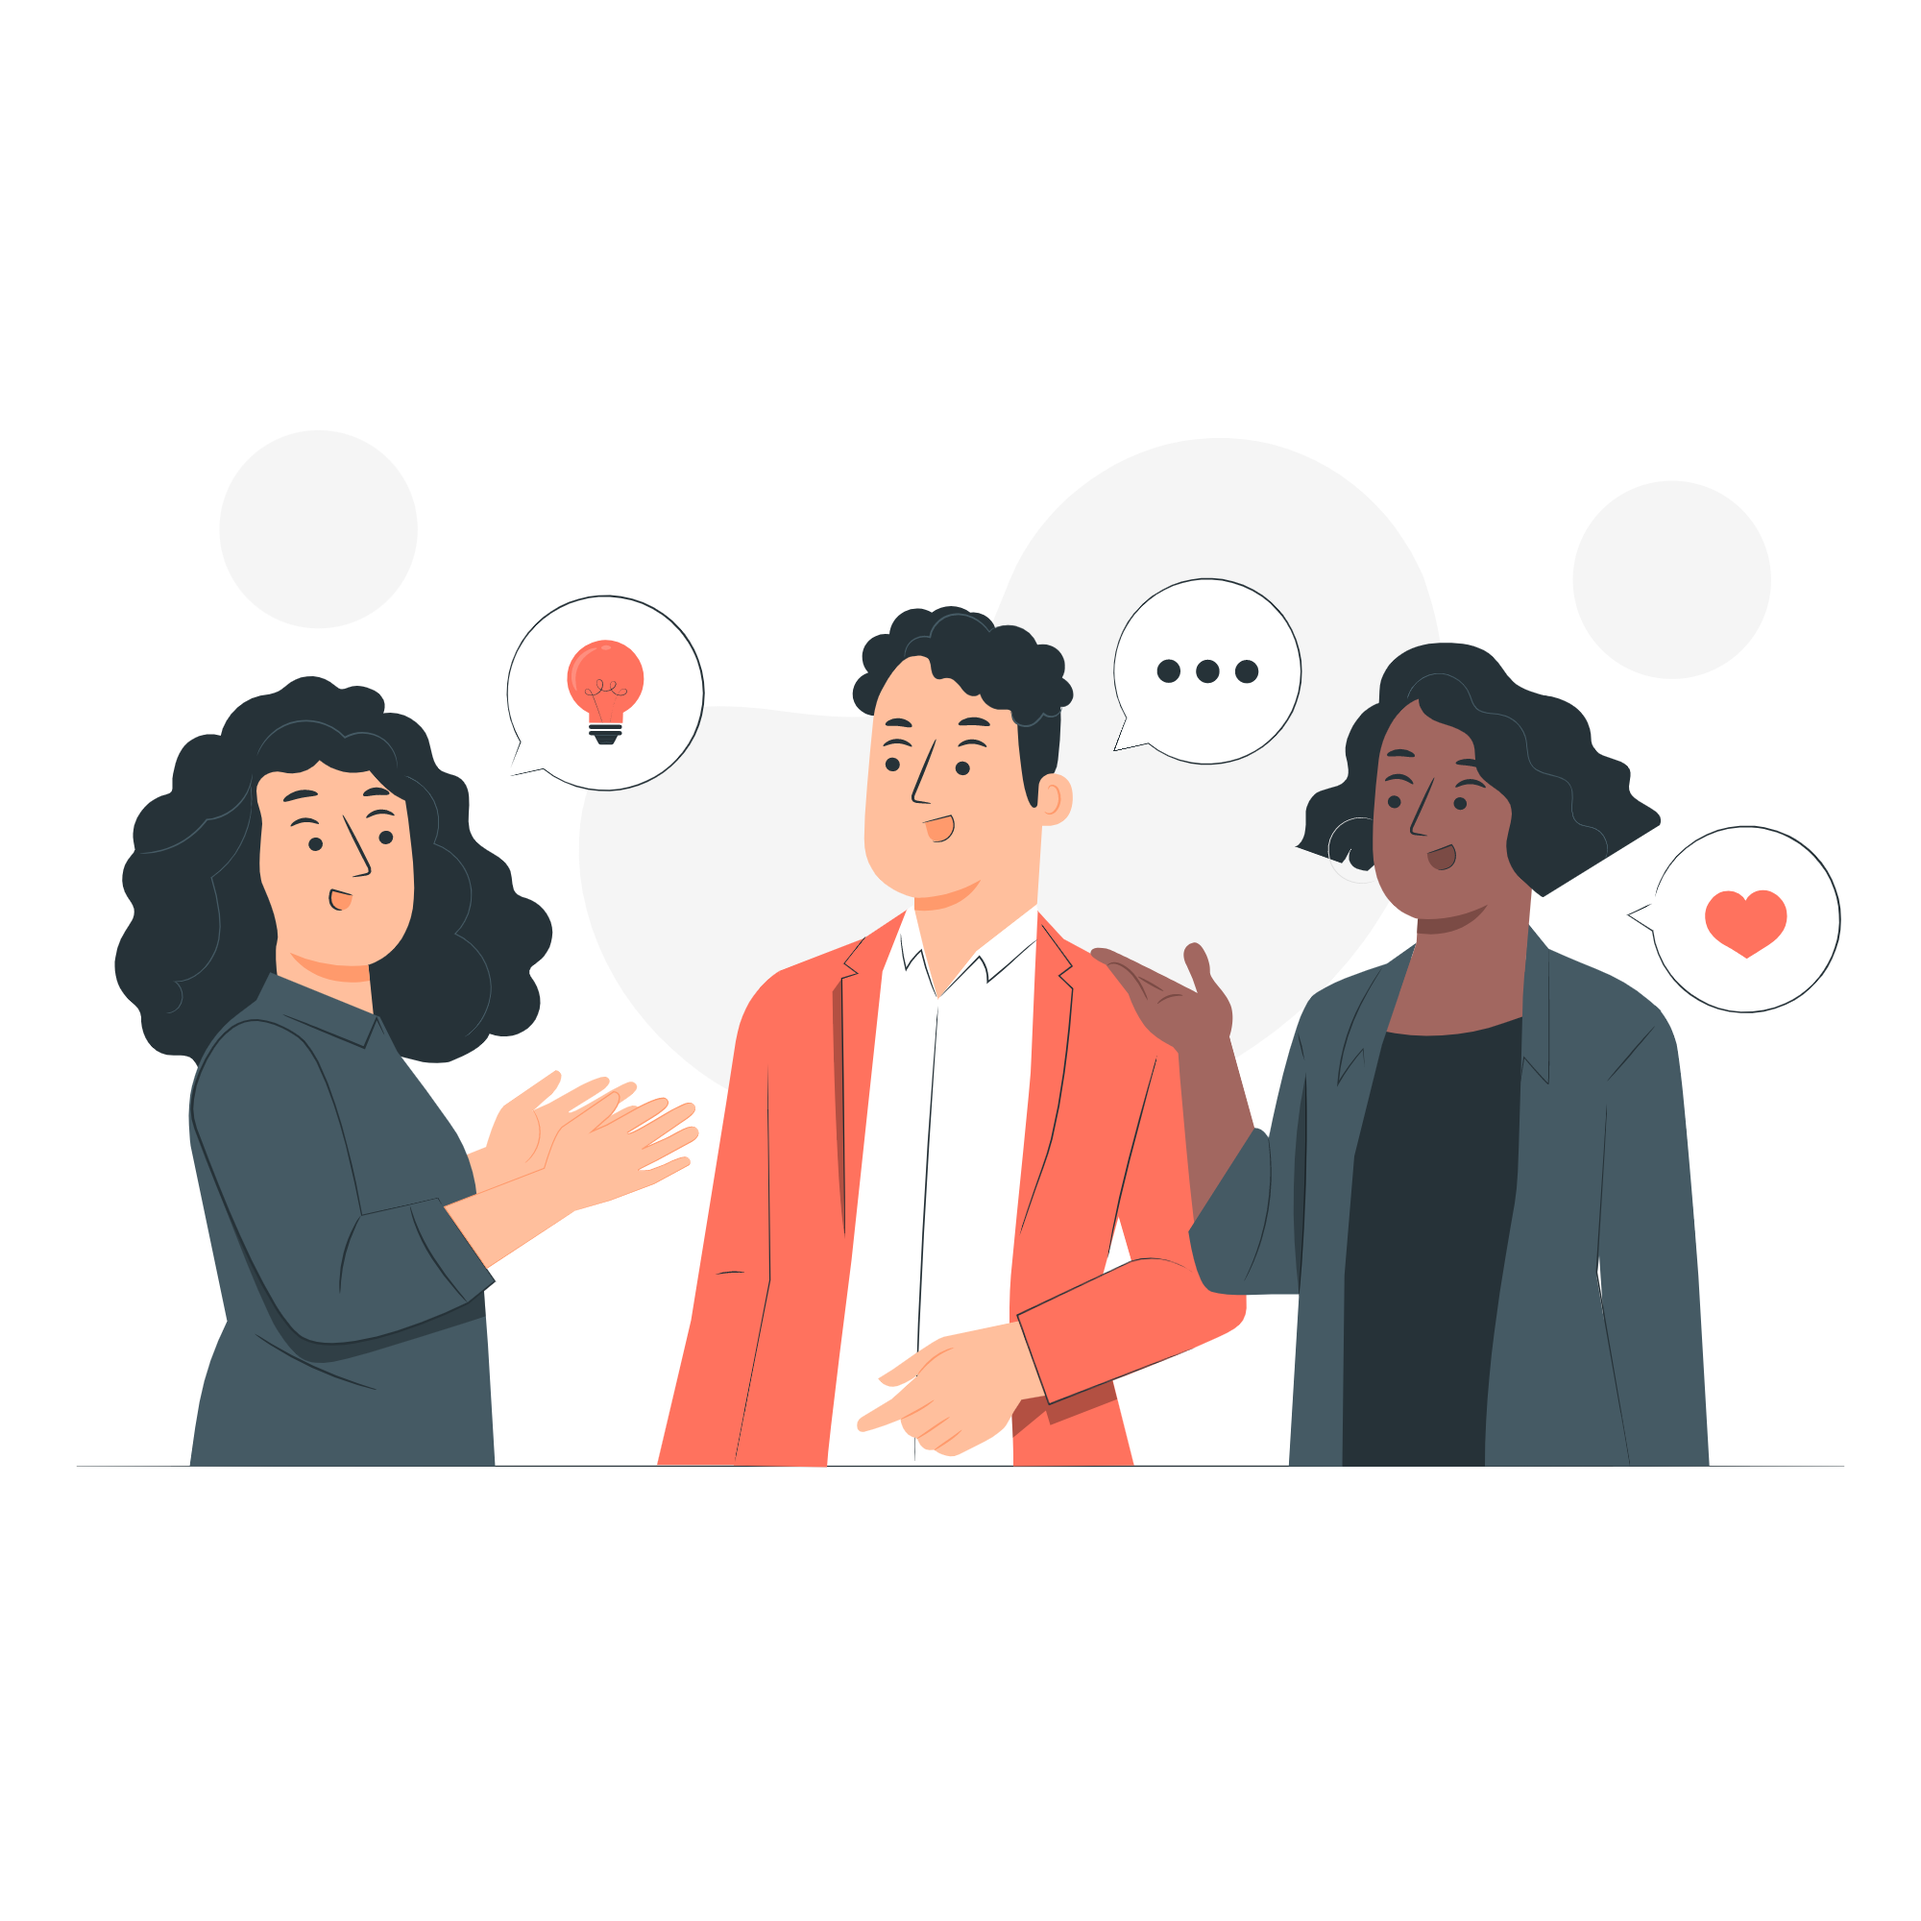
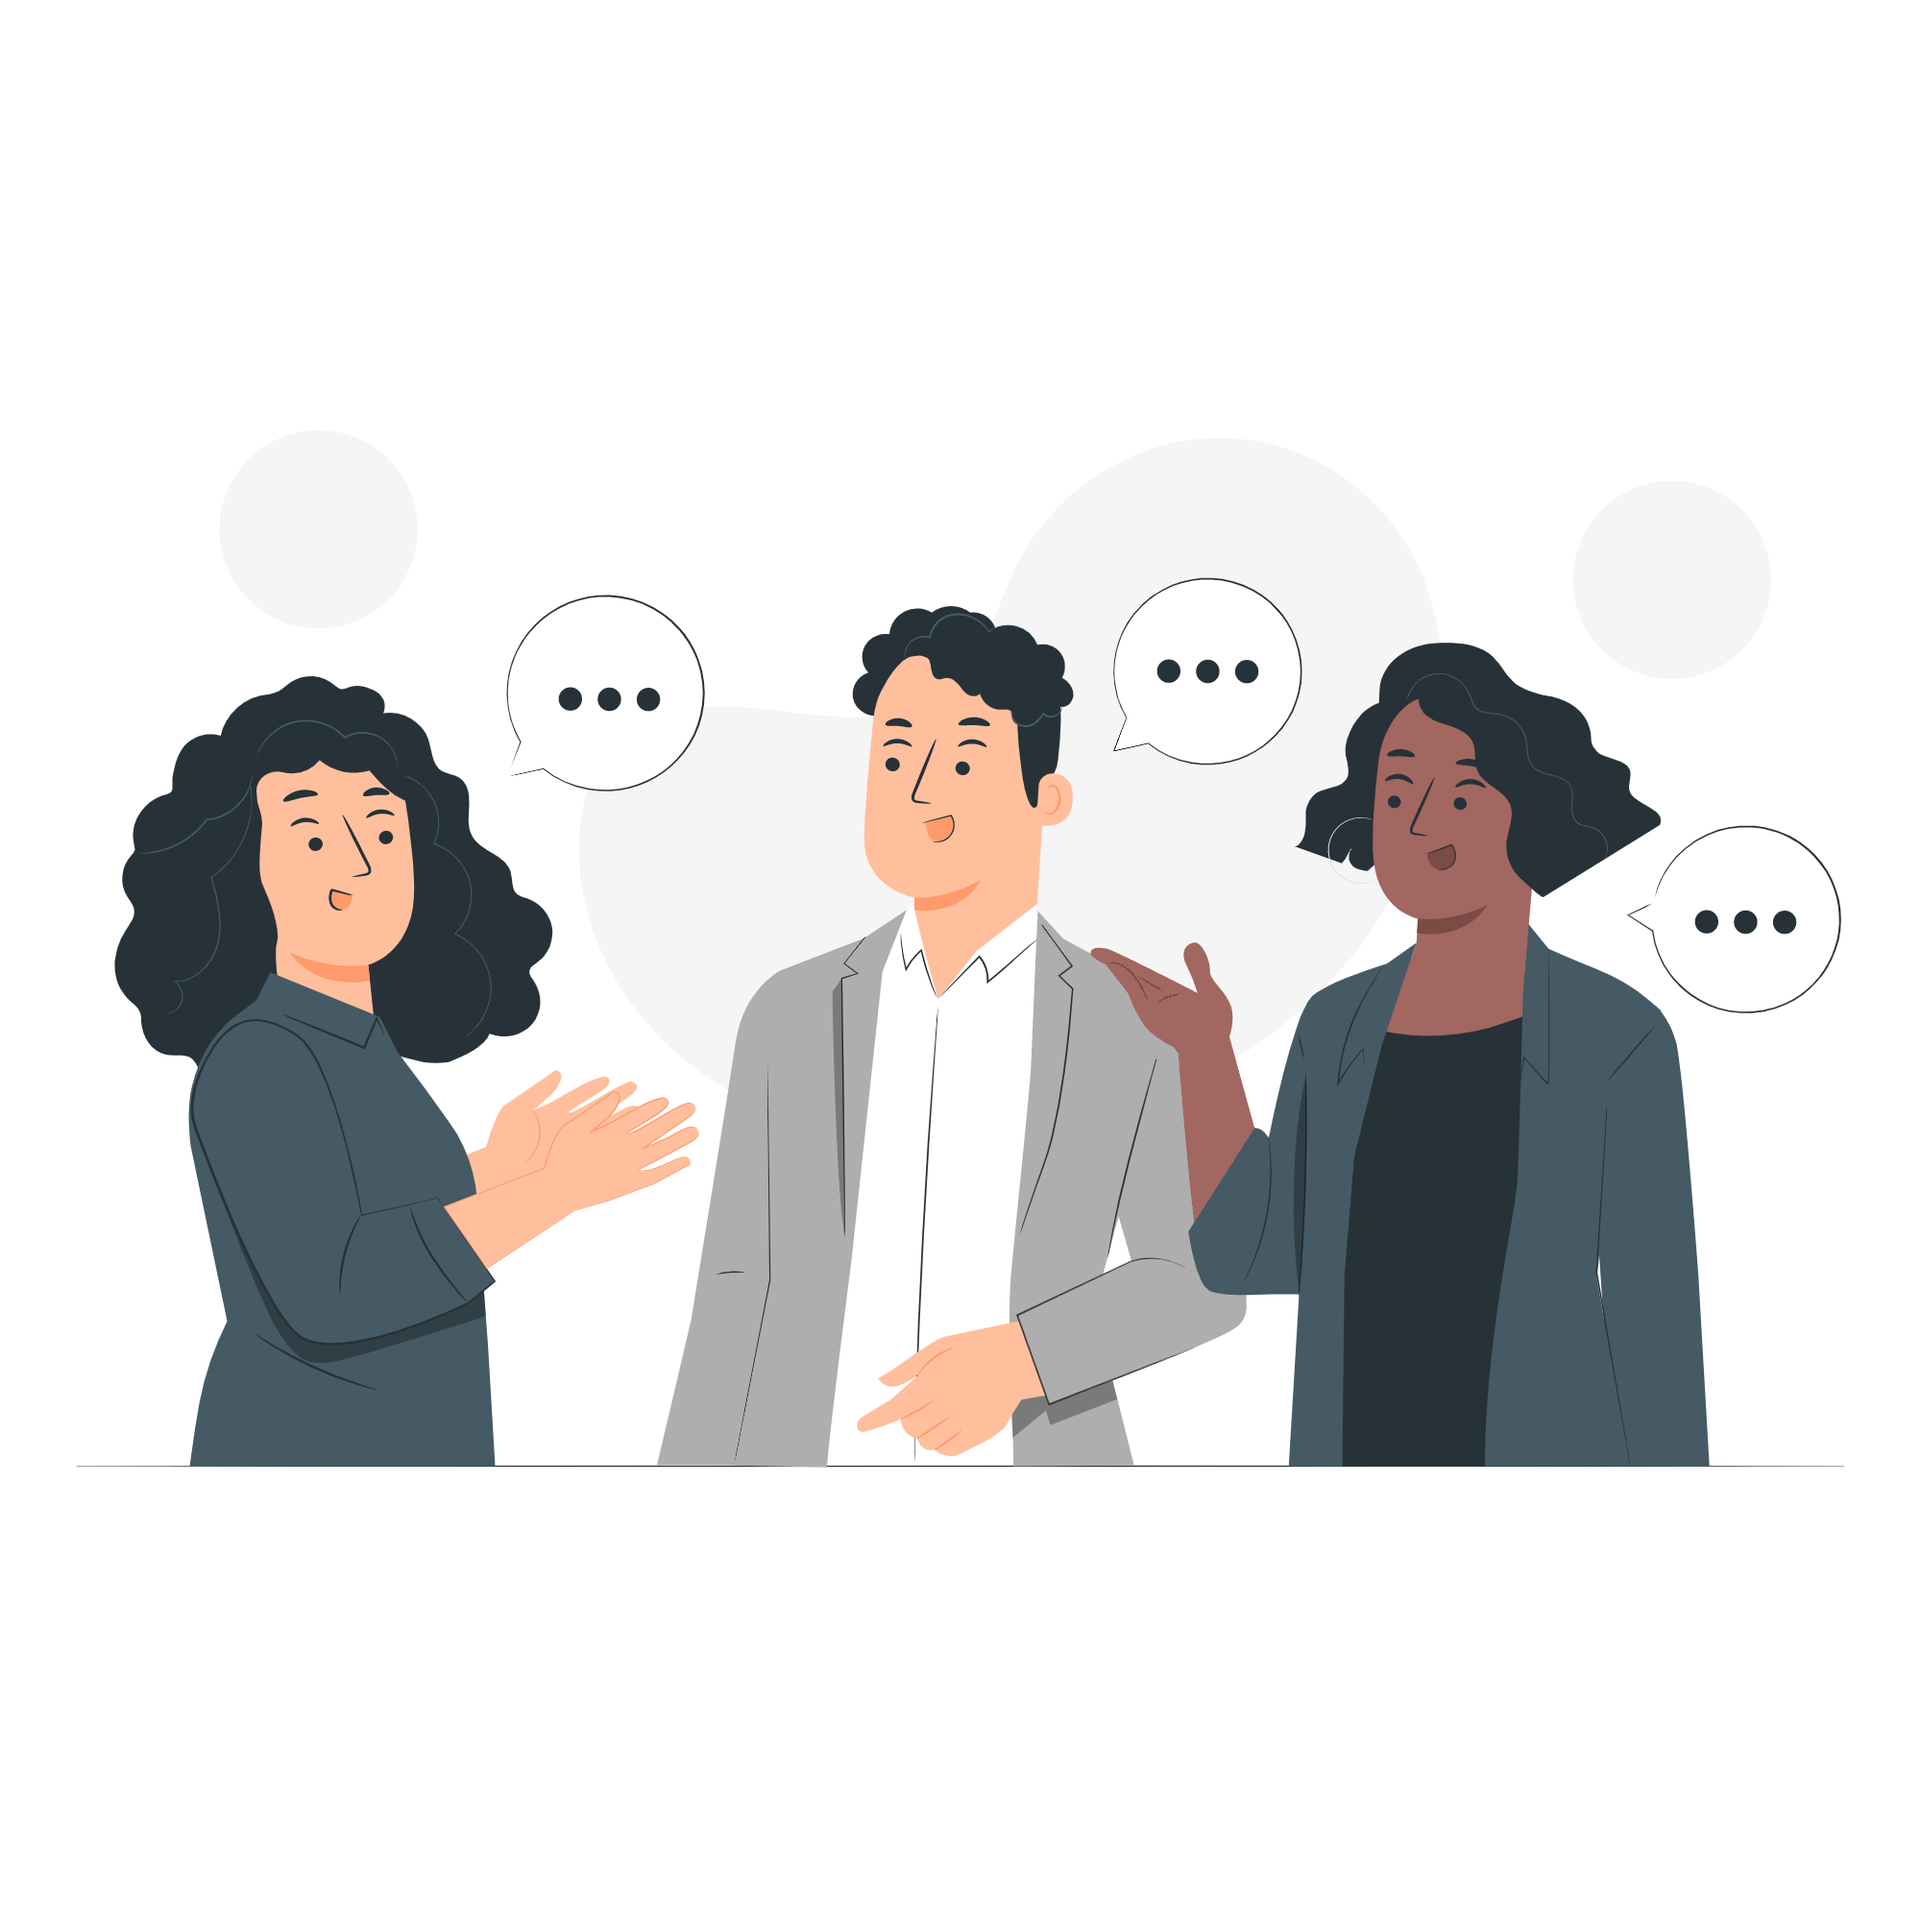
neutralized color pallete

diff --git a/lib/pages/home_page.dart b/lib/pages/home_page.dart
@@ -1,5 +1,7 @@
+import 'package:firebase_auth/firebase_auth.dart';
 import 'package:flutter/material.dart';
 import 'package:flutter_chat_app/helper/helper_function.dart';
+import 'package:flutter_chat_app/service/database_service.dart';
 import '../widgets/drawer_widget.dart';
 import 'package:flutter_chat_app/pages/search_page.dart';
 import 'package:flutter_chat_app/service/auth_service.dart';
@@ -16,6 +18,7 @@ class _HomePageState extends State<HomePage> {
   String userName = "";
   String email = "";
   AuthService authService = AuthService();
+  Stream? groups;
 
   @override
   void initState() {
@@ -32,6 +35,15 @@ class _HomePageState extends State<HomePage> {
     await HelperFunctions.getUserNameFromSF().then((value) {
       setState(() {
         userName = value!;
+      });
+    });
+
+    // getting list of snapshots in stream
+    await DatabaseService(uid: FirebaseAuth.instance.currentUser!.uid)
+        .getUserGroups()
+        .then((snapshots) {
+      setState(() {
+        groups = snapshots;
       });
     });
   }
@@ -66,5 +78,49 @@ class _HomePageState extends State<HomePage> {
 
   addGroupDialog(BuildContext context) {}
 
-  groupList() {}
+  groupList() {
+    return StreamBuilder(
+      stream: groups,
+      builder: (BuildContext context, AsyncSnapshot snapshots) {
+        // make checks
+        if (snapshots.hasData) {
+          if (snapshots.data['groups'] != null) {
+            if (snapshots.data['groups'].length != 0) {
+              return const Text("HELLOOO");
+            } else {
+              return noGroupWidget();
+            }
+          } else {
+            return noGroupWidget();
+          }
+          ;
+        } else {
+          return Center(
+              child: CircularProgressIndicator(
+                  color: Theme.of(context).primaryColor));
+        }
+        ;
+      },
+    );
+  }
+
+  noGroupWidget() {
+    return Container(
+      padding: const EdgeInsets.symmetric(
+        horizontal: 25,
+      ),
+      child: const Column(
+        mainAxisAlignment: MainAxisAlignment.center,
+        crossAxisAlignment: CrossAxisAlignment.center,
+        children: [
+          // Icon(Icons.add_circle_rounded, size: 75),
+          // kSizedHeight,
+          Text(
+            "You have not joined any groups, tap on the add icon to create a group or search for a group to join",
+            textAlign: TextAlign.center,
+          )
+        ],
+      ),
+    );
+  }
 }

diff --git a/lib/widgets/drawer_widget.dart b/lib/widgets/drawer_widget.dart
@@ -4,7 +4,6 @@ import 'package:flutter_chat_app/pages/login_page.dart';
 import 'package:flutter_chat_app/pages/profile_page.dart';
 import 'package:flutter_chat_app/service/auth_service.dart';
 import 'package:flutter_chat_app/widgets/widgets.dart';
-
 import '../pages/home_page.dart';
 
 class DrawerWidget extends StatefulWidget {
@@ -98,9 +97,13 @@ class _DrawerWidget extends State<DrawerWidget> {
                             nextScreenReplace(context, const LoginPage());
                           });
                         },
+                        style: ButtonStyle(
+                          backgroundColor: MaterialStatePropertyAll(
+                              Theme.of(context).primaryColor),
+                        ),
                         child: Text("Okay",
                             style: TextStyle(
-                                color: Theme.of(context).primaryColor)),
+                                color: Theme.of(context).canvasColor)),
                       ),
                     ],
                   );

diff --git a/lib/widgets/widgets.dart b/lib/widgets/widgets.dart
@@ -3,13 +3,13 @@ import "package:flutter/material.dart";
 const textInputDecoration = InputDecoration(
   labelStyle: TextStyle(color: Colors.black),
   focusedBorder: OutlineInputBorder(
-    borderSide: BorderSide(color: Color.fromARGB(255, 213, 92, 83)),
+    borderSide: BorderSide(color: Color.fromARGB(50, 0, 0, 0)),
   ),
   enabledBorder: OutlineInputBorder(
-    borderSide: BorderSide(color: Color.fromARGB(255, 213, 92, 83)),
+    borderSide: BorderSide(color: Color.fromARGB(50, 0, 0, 0)),
   ),
   errorBorder: OutlineInputBorder(
-    borderSide: BorderSide(color: Color.fromARGB(255, 213, 92, 83)),
+    borderSide: BorderSide(color: Color.fromARGB(50, 0, 0, 0)),
   ),
 );
 

diff --git a/lib/service/database_service.dart b/lib/service/database_service.dart
@@ -25,4 +25,9 @@ class DatabaseService {
         await userCollection.where("email", isEqualTo: email).get();
     return snapshot;
   }
+
+  // get user groups
+  Future getUserGroups() async {
+    return userCollection.doc(uid).snapshots();
+  }
 }
